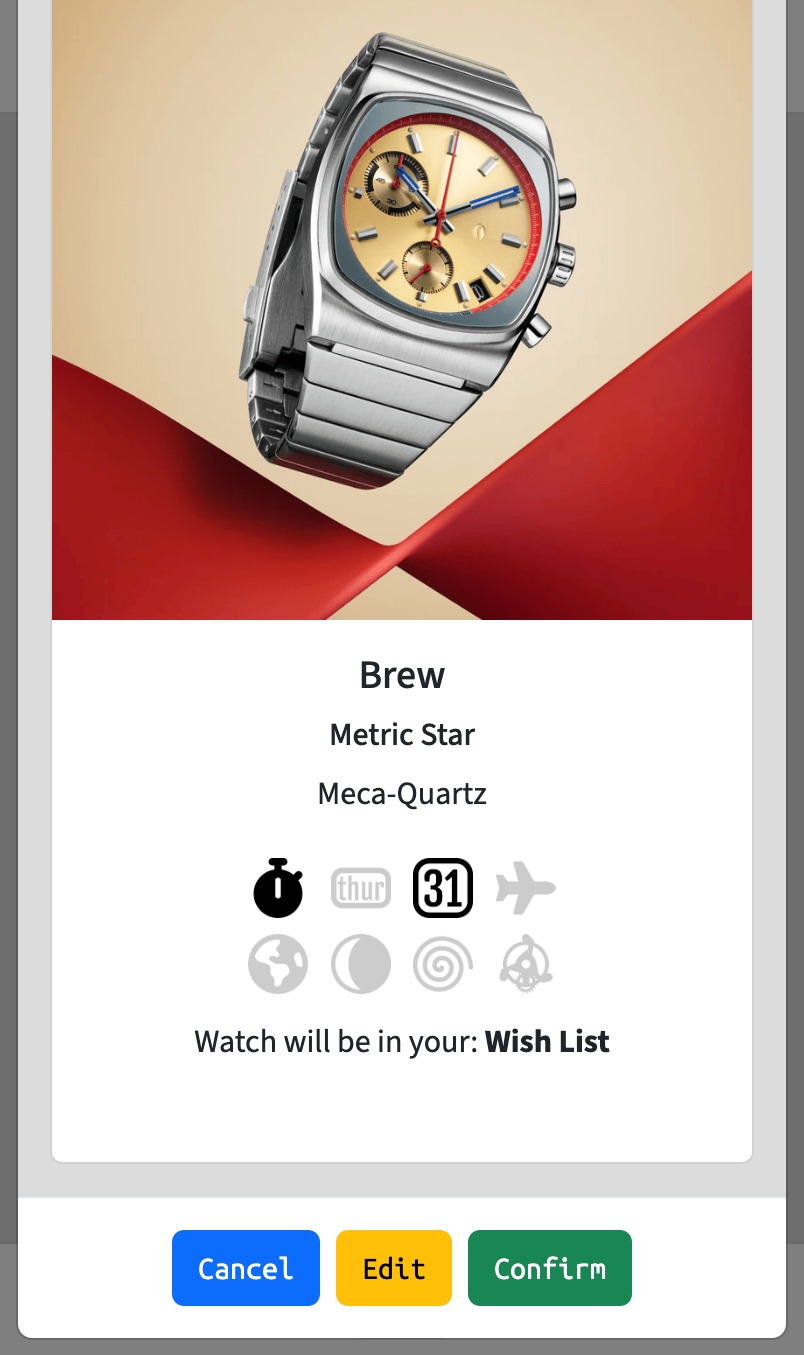
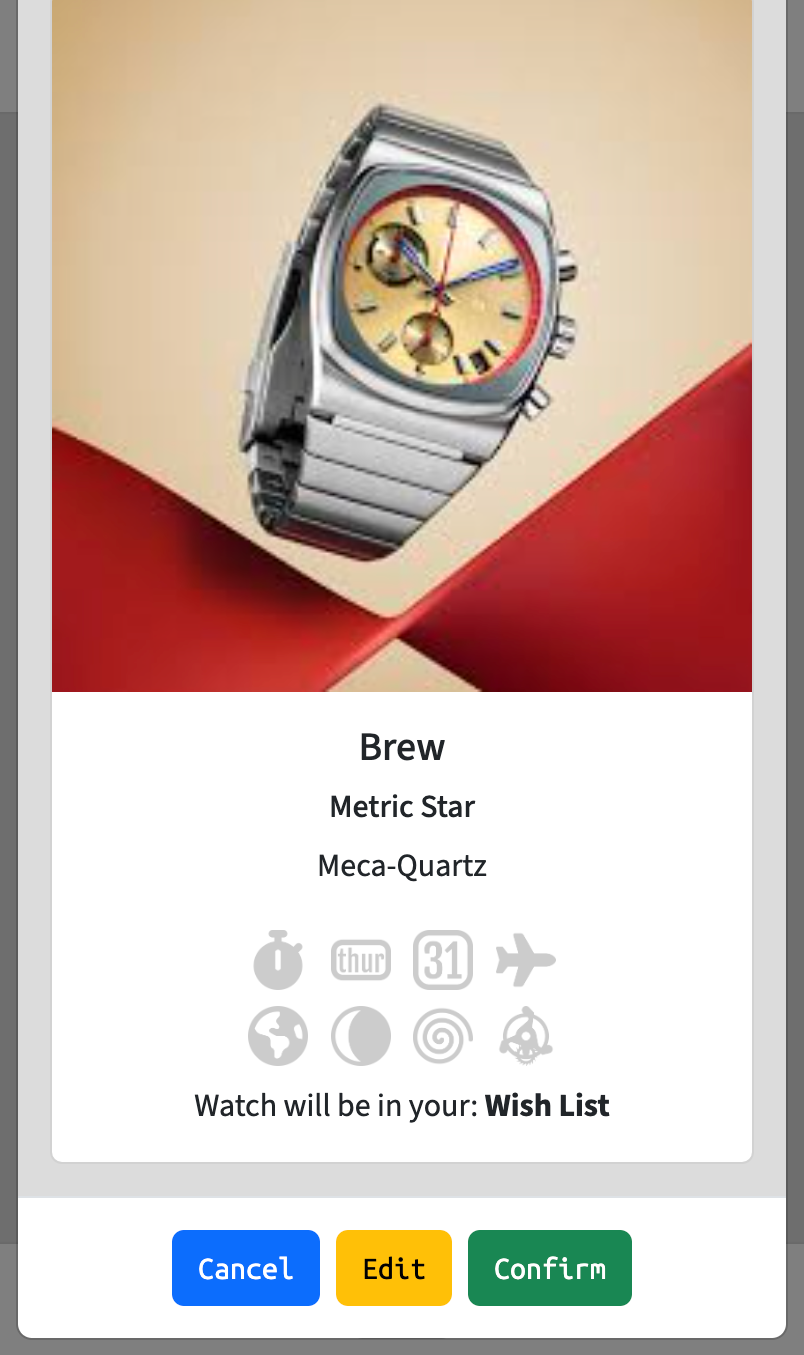
Update README.md: Features - Add watch screenshots

Changed region(s): [[0.0622, 0.0, 0.9328, 0.8369]]

diff --git a/watches/templates/watches/manage_watch.html b/watches/templates/watches/manage_watch.html
@@ -62,7 +62,7 @@
         </div>
     </div>
     <div class="modal" id="watch-modal" tabindex="-1">
-        <div class="modal-dialog">
+        <div class="modal-dialog modal-sm">
             <div class="modal-content">
                 <div class="modal-header">
                 <h4 id="watch-modal-title" class="modal-title">Confirm watch details:</h4>
@@ -123,7 +123,7 @@
                                     data-bs-title="Tourbillon">
                                 </div>
                             </div>
-                            <p id="watch-modal-list" class="mt-2"></p>
+                            <div id="watch-modal-list" class="mt-1"></div>
                         </div>
                     </div>
                 </div>

diff --git a/static/script/edit_watch_script.js b/static/script/edit_watch_script.js
@@ -51,7 +51,7 @@ editButton.addEventListener('click', (e) => {
         if (watchForm.elements.movement_model.value != '') {
             watchModalWatchMovement.innerText += ` (${watchForm.elements.movement_model.value})`;
         }
-        watchModalList.innerHTML = `<p>Watch will be in your: <strong>${selectedList.options[selectedList.selectedIndex].text}</strong></p>`;
+        watchModalList.innerHTML = `<div>Watch will be in your: <strong>${selectedList.options[selectedList.selectedIndex].text}</strong></div>`;
         if (watchForm.elements.complication_chronograph.checked) {
             compChronograph.classList.remove('not-complicated');
         }

diff --git a/static/css/style.css b/static/css/style.css
@@ -285,13 +285,14 @@ main {
 
 .existing-image {
     aspect-ratio: 1/1;
-    width: 50%;
+    width: 30%;
     object-fit: cover;
 }
 
 #watch-edit-modal {
     background-color: rgb(220, 220, 220);
 }
+
 /* WATCH-EDIT ->END<- */
 
 /* STAFF SETTINGS */
